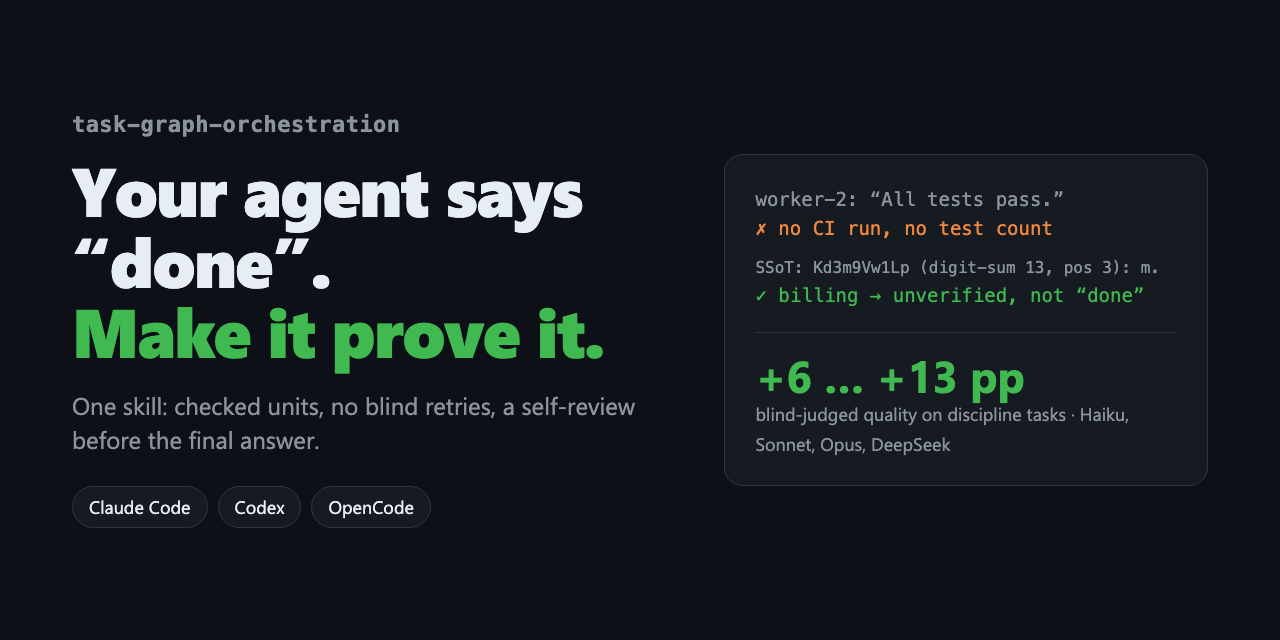
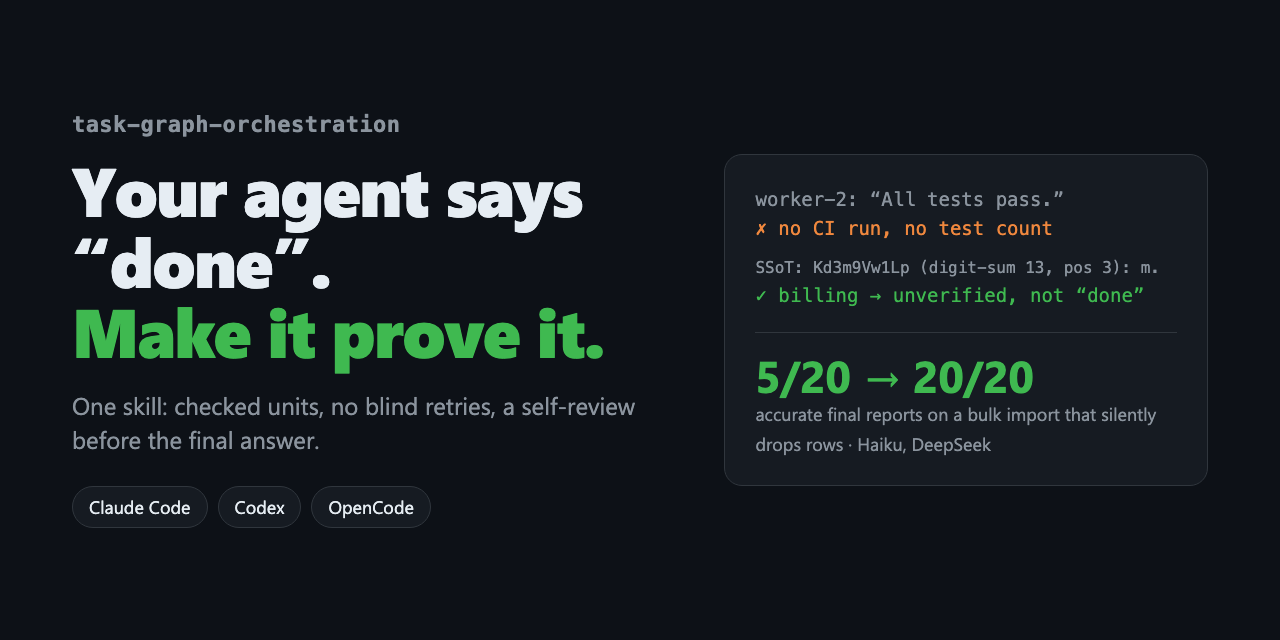
v1.3.0: numbers come from a command that counts exactly that; honest benchmark
- SKILL.md: every number in a report is printed by a command that counts exactly the named
  category (no counting output lines by eye; fixers print how many they fixed of each kind);
  no probe records in a live system
- README (en/uk/zh-CN/ja), cover and repo description: benchmark rewritten from outcome-checked
  runs (final-report accuracy 20/20 vs 14/20 for v1.2.0 vs 5/20 without the skill on a lossy
  bulk import; cost x1.3-1.6); the earlier '+6..+13 pp' claim is withdrawn

Changed region(s): [[0.5938, 0.5625, 0.9062, 0.6562], [0.5938, 0.6875, 0.7812, 0.7188]]

diff --git a/assets/social-preview.html b/assets/social-preview.html
@@ -38,7 +38,7 @@
     <div class="bad">✗ no CI run, no test count</div>
     <div class="dim" style="margin-top:12px;font-size:16px">SSoT: Kd3m9Vw1Lp (digit-sum 13, pos 3): m.</div>
     <div class="ok">✓ billing → unverified, not “done”</div>
-    <div class="stat"><b>+6 … +13 pp</b><span>blind-judged quality on discipline tasks · Haiku, Sonnet, Opus, DeepSeek</span></div>
+    <div class="stat"><b>5/20 → 20/20</b><span>accurate final reports on a bulk import that silently drops rows · Haiku, DeepSeek</span></div>
   </div>
 </div>
 </body>

diff --git a/README.uk.md b/README.uk.md
@@ -8,11 +8,12 @@
 
 ---
 
-Там, де агенти зрізають кути — повторні невдачі, звіти на основі тверджень субагентів, — скіл підвищує «сліпу» оцінку якості на **+6…+13 відсоткових пунктів** на Haiku, Sonnet, Opus і DeepSeek за **×1,3–1,5** вартості.
+У масовому імпорті, що мовчки губить рядки, агенти без скіла давали хибні числа у фінальному звіті у 15 з 20 прогонів, зі скілом — у 0 з 20 (Haiku 5.5, DeepSeek V4.1 Flash). Сильнішими в задачах, які вони й так роблять правильно, він їх не робить, а коштує ×1,3–1,6. [Бенчмарк ↓](#бенчмарк)
 
 Один скіл для **Claude Code, Codex і OpenCode**, який змінює, як агент виконує все, що більше за одну дію:
 
 - **Докази, а не слова.** «Тести пройшли» від субагента — лише твердження. Скіл змушує перевірити CI-запуск, файл, квитанцію.
+- **Числа з команди, а не на око.** Кожне число у звіті має вивести команда, що рахує саме це; рядки виводу очима не рахуються — саме так звіти стають хибними.
 - **Без сліпих повторів.** Дві однакові помилки поспіль запускають **SSoT**: зупинитися, назвати спільне хибне припущення, змінити причину або ескалювати.
 - **Другий погляд перед «готово».** Перед фінальним звітом агент перечитує результат як рецензент, що його не писав.
 - **Раннє завершення, пропуск зробленого.** Після кожного кроку агент дивиться на весь план: мету досягнуто — зупиняється; роботу вже зроблено — позначає її готовою замість повтору; план хибний — перепланує лише зламану частину.
@@ -39,59 +40,24 @@ curl -fsSL https://raw.githubusercontent.com/Lexus2016/task-graph-orchestration-
 
 ## Бенчмарк
 
-Заміри 2026-11-05, скіл v1.1.0: Claude Code 2.1.318 (`claude -p`) для моделей Claude, OpenCode 2.1.2 (`opencode run`) для DeepSeek V4.1 Flash. Кожен прогін — у чистій теці без `CLAUDE.md`/`AGENTS.md` користувача, MCP і інших скілів. 7 задач у 3 групах, 3 групи прогонів (*без скіла*, *увімкнено* — промпт просить скіл, *сам вирішує*), «сліпий» суддя Sonnet 5.5; приховані тести, незмінність файлів і арифметику SSoT перевіряє код. Прогонів на групу на задачу: Haiku 5, DeepSeek 3, Sonnet 2, Opus 2 — разом 252.
+Заміри 2026-11-05/06: Claude Code 2.1.318 (Haiku 5.5) і OpenCode 2.1.2 (DeepSeek V4.1 Flash). Кожен прогін — у чистій теці, без `CLAUDE.md`/`AGENTS.md` користувача, MCP і інших скілів.
 
-**Задачі на дисципліну (повторна невдача, звіт на основі тверджень субагентів)** — якість, % від ідеалу
+**Методика.** Кожна задача працює з маленьким локальним мок-сервісом (або файлами), що записує, що агент справді зробив. Результат перевіряє **код за цим записом**; сліпий суддя (Sonnet 5.5, група прихована, згадки скіла вирізано) лише звіряє фінальний звіт агента із записом, маючи еталонні числа. Групи: *без скіла* · *v1.2.0* · *v1.3.0* (версія в цьому репозиторії); скіл встановлено, і в запиті його вимагають.
 
-| Модель | Без скіла | Скіл увімкнено | Δ | Відносно | Скіл сам | Δ |
-|---|---|---|---|---|---|---|
-| Haiku 5.5 | 60% | 66% | **+6 п.п.** | +10% | 62% | +2 п.п. |
-| Sonnet 5.5 | 62% | 70% | **+8 п.п.** | +12% | 60% | -2 п.п. |
-| Opus 5.5 | 62% | 72% | **+10 п.п.** | +16% | 65% | +2 п.п. |
-| DeepSeek V4.1 Flash (OpenCode) | 62% | 75% | **+13 п.п.** | +22% | 65% | +3 п.п. |
+| Задача | Що перевіряється | Без скіла | v1.2.0 | **v1.3.0** |
+|---|---|---|---|---|
+| Масовий імпорт, що мовчки губить 13 з 40 рядків (Haiku + DeepSeek, по 10 прогонів на групу) | у фінальному звіті правильні числа | 5 / 20 | 14 / 20 | **20 / 20** |
+| Збій після 15 із 40 листів клієнтам, нова сесія дороблює (Haiku, 5 прогонів) | усі критерії: без дубль-листів, усі сповіщені, рішення правильні, чесний звіт | 3 / 5 | 2 / 5 | **5 / 5** |
+| Людська верифікація зупиняє активацію після 4 з 12 вендорів (10 прогонів) | стан сервісу правильний, звіт чесний | 10 / 10 | 10 / 10 | 10 / 10 |
+| Платіжний пісочний сервіс із 429, токеном, що спливає, і списаннями, які проводяться, але дають таймаут (10 прогонів) | кожен рахунок списано рівно раз, звіт чесний | 9 / 10 | 10 / 10 | 10 / 10 |
 
-**Реальна робота (дослідження з суперечливими джерелами, баг у кількох файлах, недороблена міграція)** — якість, % від ідеалу
+**Скільки коштує** порівняно з простим агентом, у середньому за трьома мок-сервісними задачами: Haiku — токени ×1,25, рахунок ×1,30, час ×1,23; DeepSeek — токени ×1,83, рахунок ×1,61, час ×1,38.
 
-| Модель | Без скіла | Скіл увімкнено | Δ | Відносно | Скіл сам | Δ |
-|---|---|---|---|---|---|---|
-| Haiku 5.5 | 89% | 89% | **+1 п.п.** | +1% | 90% | +1 п.п. |
-| Sonnet 5.5 | 87% | 90% | **+3 п.п.** | +4% | 82% | -5 п.п. |
-| Opus 5.5 | 88% | 85% | **-3 п.п.** | -4% | 85% | -3 п.п. |
-| DeepSeek V4.1 Flash (OpenCode) | 90% | 86% | **-4 п.п.** | -5% | 89% | -1 п.п. |
+**Що це означає.** Вимірний виграш — у *звіті*. Агенти без скіла помилялися в числах у 15 з 20 прогонів імпорту (здебільшого в цінах із комою: 6, 8, 9, 11, 13 або 14 при правильному 7), бо рахували виведені рядки очима. v1.3.0 вимагає, щоб кожне число виводила команда, що рахує саме це, — і всі 20 звітів точні. Там, де агенти й так поводяться правильно (стан сервісу був правильним у кожному прогоні кожної групи), скіл додає лише витрати.
 
-**Малі задачі (мають лишатися малими)** — якість, % від ідеалу
+**Виправлення.** Раніші версії цього README стверджували «+6…+13 відсоткових пунктів» на задачах дисципліни. Ця цифра походила з критерію, що перевіряв, чи є у відповіді рядок SSoT, який може створити лише скіл. За самими результатами ці задачі однаково розв'язуються і з скілом, і без нього. Твердження відкликано.
 
-| Модель | Без скіла | Скіл увімкнено | Δ | Відносно | Скіл сам | Δ |
-|---|---|---|---|---|---|---|
-| Haiku 5.5 | 89% | 87% | **-2 п.п.** | -2% | 90% | +1 п.п. |
-| Sonnet 5.5 | 90% | 88% | **-2 п.п.** | -3% | 85% | -5 п.п. |
-| Opus 5.5 | 90% | 82% | **-8 п.п.** | -8% | 90% | +0 п.п. |
-| DeepSeek V4.1 Flash (OpenCode) | 90% | 87% | **-3 п.п.** | -4% | 88% | -2 п.п. |
-
-**Ціна скіла** — усі задачі, крім малих, *без → увімкнено*
-
-| Модель | Час | Виклики інструментів | Токени | з них читання з кешу | Некешований вхід + вихід | Вартість |
-|---|---|---|---|---|---|---|
-| Haiku 5.5 | ×2.8 | 3.6 → 6.2 | ×1.9 | 88% → 91% | ×1.4 | ×1.5 ($0.0030 → $0.0047) |
-| Sonnet 5.5 | ×1.0 | 1.8 → 4.7 | ×1.8 | 87% → 91% | ×1.2 | ×1.3 ($0.0379 → $0.0497) |
-| Opus 5.5 | ×1.4 | 1.5 → 2.7 | ×1.8 | 86% → 90% | ×1.2 | ×1.3 ($0.0768 → $0.0997) |
-| DeepSeek V4.1 Flash (OpenCode) | ×1.6 | 7.1 → 7.5 | ×1.7 | 73% → 72% | ×1.7 | ×1.5 ($0.0022 → $0.0033) |
-
-**Як часто модель сама вмикає скіл** (група «сам вирішує»)
-
-| Модель | Дисципліна | Реальна робота | Малі задачі |
-|---|---|---|---|
-| Haiku 5.5 | 0% | 0% | 0% |
-| Sonnet 5.5 | 50% | 0% | 0% |
-| Opus 5.5 | 75% | 0% | 0% |
-| DeepSeek V4.1 Flash (OpenCode) | 100% | 0% | 0% |
-
-- **Там, для чого скіл створено, він працює на всіх моделях:** задачі на дисципліну +6…+13 п.п. (+10…+22% відносно). Найдешевша модель виграє найбільше: DeepSeek V4.1 Flash 62% → 75%.
-- **Реальна робота — без помітного ефекту:** усі моделі розв'язують ці задачі на 100% критеріїв і без скіла; якість у межах ±5 п.п. Задачі виявилися занадто простими.
-- **Малі задачі:** якщо скіл увімкнути примусово, −2…−8 п.п.; сам він там не вмикається (0%), тож у звичайній роботі малі задачі не страждають.
-- **Токени ×1,7–1,9, рахунок ×1,3–1,5:** додаткові кроки перечитують уже кешований контекст (частка читання з кешу на Claude 86–88% → 90–91%), а свіжі токени ростуть лише ×1,2–1,4. DeepSeek кешує менше і платить ×1,5.
-
-Деталі, методика й застереження: [README.md](README.md#benchmark).
+*Застереження:* 5–10 прогонів на комірку і дві моделі (Haiku 5.5, DeepSeek V4.1 Flash); суддя належить до того ж сімейства, що й одна з них. Правило підрахунку у v1.3.0 написано після того, як імпорт виявив проблему, тож цей рядок не є незалежним доказом; задача з відшкодуваннями обрана незалежно і вказує в той самий бік, але 5 прогонів самі по собі не значущі (p = 0,44 проти простого агента). Два збої простого агента з пілота на 3 прогони — подвійне списання і зайвий тестовий запис у живому сервісі — не повторилися в понад 150 наступних прогонах. Тестові задачі, мок-сервіси й суддя в цьому репозиторії не публікуються.
 
 ## Автооновлення
 

diff --git a/README.md b/README.md
@@ -8,11 +8,11 @@
 
 <p align="center">
   <a href="LICENSE"><img alt="MIT" src="https://img.shields.io/badge/license-MIT-blue"></a>
-  <img alt="version" src="https://img.shields.io/badge/version-1.2.0-informational">
+  <img alt="version" src="https://img.shields.io/badge/version-1.3.0-informational">
   <img alt="Claude Code" src="https://img.shields.io/badge/Claude%20Code-skill%20%2B%20plugin-d97757">
   <img alt="Codex" src="https://img.shields.io/badge/Codex-skill-111111">
   <img alt="OpenCode" src="https://img.shields.io/badge/OpenCode-skill-4b5563">
-  <a href="#benchmark"><img alt="benchmark" src="https://img.shields.io/badge/discipline%20tasks-%2B6..13%20pp%20quality-brightgreen"></a>
+  <a href="#benchmark"><img alt="benchmark" src="https://img.shields.io/badge/final%20report%20accuracy-20%2F20%20vs%205%2F20-brightgreen"></a>
 </p>
 
 <p align="center">
@@ -21,11 +21,12 @@
 
 ---
 
-On tasks where agents cut corners — repeated failures, reports built on subagent claims — it raises blind-judged quality by **+6 to +13 percentage points** on Haiku, Sonnet, Opus and DeepSeek, for **×1.3–1.5** the cost. [Benchmark ↓](#benchmark)
+On a bulk import that silently loses rows, agents without the skill gave wrong counts in their final report in 15 of 20 runs; with it, in 0 of 20 (Haiku 5.5, DeepSeek V4.1 Flash). It does not make agents stronger at tasks they already do right, and it costs ×1.3–1.6. [Benchmark ↓](#benchmark)
 
 One drop-in skill for **Claude Code, Codex and OpenCode** that changes how an agent runs anything bigger than a one-liner:
 
 - **Proof, not prose.** A worker saying “tests pass” is a claim. The skill makes the agent check the CI run, the file, the receipt.
+- **Numbers from a command, not by eye.** Every count in the final report is printed by a command that counts exactly that thing; counting lines of output by eye is how reports go wrong.
 - **No blind retries.** Two identical failures in a row trigger **SSoT**: stop, name the assumption every attempt shared, change the cause — or escalate.
 - **A second look before “done”.** Before the final report the agent re-reads its own result as a reviewer who didn’t write it.
 - **Finish early, skip what's done.** After every step the agent checks the whole plan: goal already met → stop; work already in place → mark it done instead of redoing it; plan wrong → replan only the broken part.
@@ -59,69 +60,24 @@ The installer copies `skills/task-graph-orchestration/` into every agent skills 
 
 ## Benchmark
 
-Measured on 2026-11-05 with skill v1.1.0: Claude Code 2.1.318 (`claude -p`) for Claude models, OpenCode 2.1.2 (`opencode run`) for DeepSeek V4.1 Flash. Every run starts in a fresh directory with clean settings: no user `CLAUDE.md` / `AGENTS.md`, no MCP servers, no other skills.
+Measured on 2026-11-05/06 with Claude Code 2.1.318 (Haiku 5.5) and OpenCode 2.1.2 (DeepSeek V4.1 Flash). Every run starts in a fresh directory with clean settings: no user `CLAUDE.md` / `AGENTS.md`, no MCP servers, no other skills.
 
-- **7 tasks in 3 groups.** *Discipline:* a fix that failed twice with the same error; a final report built on three subagent claims, one without evidence. *Real work:* research over five sources that disagree; a discount bug across several files with hidden tests; a migration a teammate half-finished, with a non-idempotent script. *Small:* checking four configs; renaming one function.
-- **3 arms.** *without* — no skill · *loaded* — skill installed and the prompt asks for it · *auto* — skill installed, the model decides.
-- **Scoring.** A blind judge (Sonnet 5.5) never sees the arm; skill mentions are redacted. It scores quality 1–10 (shown here as % of ideal) and grades every criterion. Hidden tests, untouched files, config values and SSoT arithmetic are checked by code.
-- **Runs per arm per task:** Haiku 5, DeepSeek 3, Sonnet 2, Opus 2 — 252 runs in total.
+**Method.** Each task runs against a small local mock service (or plain files) that records what the agent really did. Outcomes are checked **by code from that record**; a blind judge (Sonnet 5.5, arm hidden, skill mentions redacted) only checks that the agent's final report matches the record, with the ground-truth numbers supplied. Arms: *no skill* · *v1.2.0* · *v1.3.0* (the version in this repository), with the skill installed and the prompt asking for it.
 
-**Discipline tasks (repeated failure, report built on subagent claims)** — quality, % of ideal
+| Task | What is checked | No skill | v1.2.0 | **v1.3.0** |
+|---|---|---|---|---|
+| Bulk import that silently drops 13 of 40 rows (Haiku + DeepSeek, 10 runs each per arm) | the final report states the right counts | 5 / 20 | 14 / 20 | **20 / 20** |
+| Crash after 15 of 40 customer emails, a fresh session finishes the job (Haiku, 5 runs) | every criterion: no duplicate email, everyone notified, decisions right, honest report | 3 / 5 | 2 / 5 | **5 / 5** |
+| Human-verification wall that stops activation after 4 of 12 vendors (10 runs) | service state correct and report honest | 10 / 10 | 10 / 10 | 10 / 10 |
+| Payment sandbox with 429s, an expiring token and charges that time out after being processed (10 runs) | each invoice charged exactly once and report honest | 9 / 10 | 10 / 10 | 10 / 10 |
 
-| Model | Without skill | Skill loaded | Δ | Relative | Skill auto | Δ |
-|---|---|---|---|---|---|---|
-| Haiku 5.5 | 60% | 66% | **+6 pp** | +10% | 62% | +2 pp |
-| Sonnet 5.5 | 62% | 70% | **+8 pp** | +12% | 60% | -2 pp |
-| Opus 5.5 | 62% | 72% | **+10 pp** | +16% | 65% | +2 pp |
-| DeepSeek V4.1 Flash (OpenCode) | 62% | 75% | **+13 pp** | +22% | 65% | +3 pp |
+**What it costs**, versus no skill, averaged over the three mock-service tasks: Haiku — tokens ×1.25, bill ×1.30, time ×1.23; DeepSeek — tokens ×1.83, bill ×1.61, time ×1.38.
 
-**Real work (research with conflicting sources, multi-file bug fix, half-finished migration)** — quality, % of ideal
+**What this says.** The measurable gain is in the *report*. Agents without the skill got a count wrong in 15 of 20 import runs (mostly the comma-decimal prices: 6, 8, 9, 11, 13 or 14 where the truth was 7) because they counted printed lines by eye. v1.3.0 asks for every number to be printed by a command that counts exactly that, and it was right in all 20. Where agents already behave — the service ended in a correct state in every run of every arm — the skill adds cost and nothing else.
 
-| Model | Without skill | Skill loaded | Δ | Relative | Skill auto | Δ |
-|---|---|---|---|---|---|---|
-| Haiku 5.5 | 89% | 89% | **+1 pp** | +1% | 90% | +1 pp |
-| Sonnet 5.5 | 87% | 90% | **+3 pp** | +4% | 82% | -5 pp |
-| Opus 5.5 | 88% | 85% | **-3 pp** | -4% | 85% | -3 pp |
-| DeepSeek V4.1 Flash (OpenCode) | 90% | 86% | **-4 pp** | -5% | 89% | -1 pp |
+**Correction.** Earlier versions of this README claimed "+6 to +13 percentage points" on discipline tasks. That figure came from a grader that checked whether the answer contained an SSoT line, which only the skill can produce. Graded on outcomes alone, those tasks were solved equally with and without the skill. The claim is withdrawn.
 
-**Small tasks (should stay small)** — quality, % of ideal
-
-| Model | Without skill | Skill loaded | Δ | Relative | Skill auto | Δ |
-|---|---|---|---|---|---|---|
-| Haiku 5.5 | 89% | 87% | **-2 pp** | -2% | 90% | +1 pp |
-| Sonnet 5.5 | 90% | 88% | **-2 pp** | -3% | 85% | -5 pp |
-| Opus 5.5 | 90% | 82% | **-8 pp** | -8% | 90% | +0 pp |
-| DeepSeek V4.1 Flash (OpenCode) | 90% | 87% | **-3 pp** | -4% | 88% | -2 pp |
-
-**Cost of using the skill** — all non-small tasks, *without → loaded*
-
-| Model | Time | Tool calls | Tokens | of them cache reads | Uncached input + output | Cost |
-|---|---|---|---|---|---|---|
-| Haiku 5.5 | ×2.8 | 3.6 → 6.2 | ×1.9 | 88% → 91% | ×1.4 | ×1.5 ($0.0030 → $0.0047) |
-| Sonnet 5.5 | ×1.0 | 1.8 → 4.7 | ×1.8 | 87% → 91% | ×1.2 | ×1.3 ($0.0379 → $0.0497) |
-| Opus 5.5 | ×1.4 | 1.5 → 2.7 | ×1.8 | 86% → 90% | ×1.2 | ×1.3 ($0.0768 → $0.0997) |
-| DeepSeek V4.1 Flash (OpenCode) | ×1.6 | 7.1 → 7.5 | ×1.7 | 73% → 72% | ×1.7 | ×1.5 ($0.0022 → $0.0033) |
-
-**How often the model picks the skill up by itself** (auto arm)
-
-| Model | Discipline | Real work | Small tasks |
-|---|---|---|---|
-| Haiku 5.5 | 0% | 0% | 0% |
-| Sonnet 5.5 | 50% | 0% | 0% |
-| Opus 5.5 | 75% | 0% | 0% |
-| DeepSeek V4.1 Flash (OpenCode) | 100% | 0% | 0% |
-
-**What the numbers say**
-
-- **Where it is built for, it works on every model.** Discipline tasks gain **+6 to +13 pp** (+10% to +22% relative) with the skill loaded. The cheapest model gains most: DeepSeek V4.1 Flash goes 62% → 75%.
-- **Real work: no measurable effect.** All four models solve the three real tasks without the skill — 100% of criteria in every arm — so there is nothing to win on correctness; quality moves within ±5 pp. These tasks turned out too easy to separate the arms; harder ones are the next step.
-- **Small tasks are the cost of forcing it.** Loaded on purpose, the skill costs 2–8 pp of polish on trivial tasks. In the *auto* arm it never triggers there (0%), so in normal use small tasks are untouched.
-- **Tokens grow ×1.7–1.9, the bill ×1.3–1.5.** The extra steps re-read context that is already cached: on Claude the cache-read share rises from 86–88% to 90–91%, and cache reads bill at a fraction of fresh input. Fresh tokens (uncached input + output) grow only ×1.2–1.4 on Claude; DeepSeek caches less and pays ×1.5.
-- **Auto-trigger is the weak spot.** Without being asked, DeepSeek used the skill on 100% of discipline runs, Opus on 75%, Sonnet on 50%, Haiku on 0%.
-
-**How the benchmark changed the skill.** The first v1.1.0 run lost up to 19 pp on real work. The transcripts showed why: agents ran the auto-update script mid-task and pasted SSoT lines and notes about the skill into their answers. Both moved out of the agent's path — updates now run outside tasks, and the deliverable is about the work only. One grader was also fixed: it penalised *adding* tests, which the prompt never forbade (editing or deleting existing tests still fails it).
-
-*Caveats:* small samples (2–5 runs per arm per task); the judge shares a model family with three of the four subjects; real-work tasks hit the ceiling.
+*Caveats:* 5–10 runs per cell and two models (Haiku 5.5, DeepSeek V4.1 Flash); the judge shares a model family with one of them. The v1.3.0 counting rule was written after the import task exposed the problem, so that row is not independent evidence; the refund task was chosen independently and points the same way, but 5 runs are not significant on their own (p = 0.44 against no skill). Two failures of the plain agent seen in a 3-run pilot — a duplicated charge and a stray test record in a live service — did not recur in the 150+ runs that followed. The test cases, mock services and judge are not published in this repository.
 
 ## Graph replay
 
@@ -205,7 +161,7 @@ install.sh · PROMPT.md             one-line install · paste-into-agent install
 
 ## About the benchmark
 
-The test cases, runners and the blind judge are kept outside this repository; it ships only the skill and these READMEs. The **Benchmark** section above describes the method (tasks, arms, scoring, runs) and will be updated as the measurements are redone.
+The test cases, mock services and the blind judge are kept outside this repository; it ships only the skill and these READMEs. The **Benchmark** section above describes the method, the results, the cost and the limits.
 
 ---
 

diff --git a/README.ja.md b/README.ja.md
@@ -8,11 +8,12 @@
 
 ---
 
-エージェントが手を抜きがちなタスク（同じ失敗の繰り返し、サブエージェントの主張に基づく報告）で、Haiku・Sonnet・Opus・DeepSeek のブラインド評価品質が **+6〜+13 ポイント** 向上。コストは **×1.3–1.5**。
+黙って行を落とす一括インポートで、スキルなしのエージェントは最終報告の数値を 20 回中 15 回間違えました。スキルありでは 20 回中 0 回です（Haiku 5.5、DeepSeek V4.1 Flash）。すでに正しくこなせるタスクでは強くなりません。コストは ×1.3–1.6 です。[ベンチマーク ↓](#ベンチマーク)
 
 **Claude Code・Codex・OpenCode** で使える 1 つのスキルで、複数ステップの作業の進め方が変わります。
 
 - **言葉ではなく証拠。** サブエージェントの「テストは全部通りました」はただの主張です。スキルは CI の実行結果、ファイル、レシートの確認を求めます。
+- **数字はコマンドから、目分量ではなく。** 報告に書くすべての数は、その項目だけを数えるコマンドの出力から取ります。出力行を目で数えると、報告が間違う原因になります。
 - **盲目的なリトライをしない。** 同じ失敗が 2 回続くと **SSoT** が発動：立ち止まり、すべての試行に共通する誤った前提を特定し、別の原因を検証するかエスカレーションします。
 - **「完了」の前にもう一度。** 最終報告の前に、書いていないレビュアーの目で結果を読み直します。
 - **早く終わり、済んだ作業は飛ばす。** 各ステップの後に計画全体を確認：目標達成なら停止、既に完了済みなら再実行せず完了扱い、計画が誤っていれば壊れた部分だけ再計画します。
@@ -39,59 +40,24 @@ curl -fsSL https://raw.githubusercontent.com/Lexus2016/task-graph-orchestration-
 
 ## ベンチマーク
 
-計測日 2026-11-05、スキル v1.1.0：Claude モデルは Claude Code 2.1.318（`claude -p`）、DeepSeek V4.1 Flash は OpenCode 2.1.2（`opencode run`）。各実行はクリーンなディレクトリで、ユーザーの `CLAUDE.md`/`AGENTS.md`、MCP、他のスキルは読み込みません。7 タスク・3 カテゴリ、3 群（*なし*、*読み込み*＝プロンプトで指示、*自動*）、ブラインド審査員は Sonnet 5.5。隠しテスト、ファイル未変更、SSoT の計算はコードで検証。群・タスクごとの実行回数：Haiku 5、DeepSeek 3、Sonnet 2、Opus 2、合計 252 回。
+計測日 2026-11-05/06：Haiku 5.5 は Claude Code 2.1.318、DeepSeek V4.1 Flash は OpenCode 2.1.2。各実行はクリーンなディレクトリで、ユーザーの `CLAUDE.md`/`AGENTS.md`、MCP、他のスキルは読み込みません。
 
-**規律タスク（同じ失敗の繰り返し、サブエージェントの主張に基づく報告）** —— 品質（理想値に対する %）
+**方法。** 各タスクは小さなローカルのモックサービス（またはただのファイル）を相手に動き、エージェントが実際に何をしたかを記録します。結果は**その記録からコードが**判定します。ブラインド審査員（Sonnet 5.5、群は伏せ、スキルへの言及は削除）は、最終報告が記録と一致するかだけを、正解の数値を渡された状態で確認します。群：*スキルなし* · *v1.2.0* · *v1.3.0*（このリポジトリの版）。スキルは導入済みで、プロンプトで使用を指示します。
 
-| モデル | スキルなし | 読み込み | Δ | 相対 | 自動 | Δ |
-|---|---|---|---|---|---|---|
-| Haiku 5.5 | 60% | 66% | **+6 pp** | +10% | 62% | +2 pp |
-| Sonnet 5.5 | 62% | 70% | **+8 pp** | +12% | 60% | -2 pp |
-| Opus 5.5 | 62% | 72% | **+10 pp** | +16% | 65% | +2 pp |
-| DeepSeek V4.1 Flash (OpenCode) | 62% | 75% | **+13 pp** | +22% | 65% | +3 pp |
+| タスク | 確認内容 | なし | v1.2.0 | **v1.3.0** |
+|---|---|---|---|---|
+| 一括インポートが 40 行中 13 行を黙って捨てる（Haiku + DeepSeek、各群 10 回） | 最終報告の数値が正しい | 5 / 20 | 14 / 20 | **20 / 20** |
+| 顧客メール 40 通のうち 15 通で障害、新しいセッションが引き継ぐ（Haiku、5 回） | 全基準：重複メールなし、全員に通知、判断が正しい、報告が正直 | 3 / 5 | 2 / 5 | **5 / 5** |
+| 人による確認の壁で 12 社中 4 社の後に有効化が止まる（10 回） | サービス状態が正しく、報告が正直 | 10 / 10 | 10 / 10 | 10 / 10 |
+| 決済サンドボックス：429、期限切れトークン、処理済みなのにタイムアウトする課金（10 回） | 各請求書がちょうど 1 回課金され、報告が正直 | 9 / 10 | 10 / 10 | 10 / 10 |
 
-**実務タスク（矛盾する資料の調査、複数ファイルのバグ修正、途中までの移行）** —— 品質（理想値に対する %）
+**コスト**（スキルなし比、3 つのモックサービス課題の平均）：Haiku — トークン ×1.25、請求 ×1.30、時間 ×1.23。DeepSeek — トークン ×1.83、請求 ×1.61、時間 ×1.38。
 
-| モデル | スキルなし | 読み込み | Δ | 相対 | 自動 | Δ |
-|---|---|---|---|---|---|---|
-| Haiku 5.5 | 89% | 89% | **+1 pp** | +1% | 90% | +1 pp |
-| Sonnet 5.5 | 87% | 90% | **+3 pp** | +4% | 82% | -5 pp |
-| Opus 5.5 | 88% | 85% | **-3 pp** | -4% | 85% | -3 pp |
-| DeepSeek V4.1 Flash (OpenCode) | 90% | 86% | **-4 pp** | -5% | 89% | -1 pp |
+**何が言えるか。** 測定できた改善は*報告*にあります。スキルなしのエージェントは、インポート 20 回中 15 回で数を間違えました（主にカンマ小数の価格：正解 7 に対して 6、8、9、11、13、14）。出力された行を目で数えていたためです。v1.3.0 は、すべての数値をその項目だけを数えるコマンドで出力させ、20 回すべて正確でした。エージェントが元々正しく振る舞う場面（全群の全実行でサービスの最終状態は正しかった）では、スキルはコストが増えるだけです。
 
-**小さなタスク（小さいままであるべき）** —— 品質（理想値に対する %）
+**訂正。** この README の以前の版は、規律タスクで「+6〜+13 ポイント」向上すると主張していました。この数字は、回答に SSoT の行があるかを確認する採点項目に由来し、その行を出せるのはスキルあり群だけでした。結果だけで採点すると、これらのタスクはスキルの有無にかかわらず同じように解けていました。この主張は撤回します。
 
-| モデル | スキルなし | 読み込み | Δ | 相対 | 自動 | Δ |
-|---|---|---|---|---|---|---|
-| Haiku 5.5 | 89% | 87% | **-2 pp** | -2% | 90% | +1 pp |
-| Sonnet 5.5 | 90% | 88% | **-2 pp** | -3% | 85% | -5 pp |
-| Opus 5.5 | 90% | 82% | **-8 pp** | -8% | 90% | +0 pp |
-| DeepSeek V4.1 Flash (OpenCode) | 90% | 87% | **-3 pp** | -4% | 88% | -2 pp |
-
-**スキルのコスト** — 小さなタスク以外すべて、*なし → 読み込み*
-
-| モデル | 時間 | ツール呼び出し | トークン | うちキャッシュ読み取り | 非キャッシュ入力 + 出力 | コスト |
-|---|---|---|---|---|---|---|
-| Haiku 5.5 | ×2.8 | 3.6 → 6.2 | ×1.9 | 88% → 91% | ×1.4 | ×1.5 ($0.0030 → $0.0047) |
-| Sonnet 5.5 | ×1.0 | 1.8 → 4.7 | ×1.8 | 87% → 91% | ×1.2 | ×1.3 ($0.0379 → $0.0497) |
-| Opus 5.5 | ×1.4 | 1.5 → 2.7 | ×1.8 | 86% → 90% | ×1.2 | ×1.3 ($0.0768 → $0.0997) |
-| DeepSeek V4.1 Flash (OpenCode) | ×1.6 | 7.1 → 7.5 | ×1.7 | 73% → 72% | ×1.7 | ×1.5 ($0.0022 → $0.0033) |
-
-**モデルが自らスキルを使う頻度** （自動群）
-
-| モデル | 規律 | 実務 | 小タスク |
-|---|---|---|---|
-| Haiku 5.5 | 0% | 0% | 0% |
-| Sonnet 5.5 | 50% | 0% | 0% |
-| Opus 5.5 | 75% | 0% | 0% |
-| DeepSeek V4.1 Flash (OpenCode) | 100% | 0% | 0% |
-
-- **設計対象のタスクでは全モデルが改善：** 規律タスクで +6〜+13 ポイント（相対 +10〜+22%）。最も安価なモデルの伸びが最大：DeepSeek V4.1 Flash 62% → 75%。
-- **実務タスクでは測定可能な効果なし：** スキルなしでも全モデルが基準を 100% 満たし、品質差は ±5 ポイント以内。タスクが簡単すぎました。
-- **小さなタスク：** 強制読み込みで −2〜−8 ポイント。自動群では一度も起動せず（0%）、通常の利用では影響なし。
-- **トークン ×1.7–1.9、請求 ×1.3–1.5：** 追加ステップは主にキャッシュ済みの文脈を読み直すため（Claude のキャッシュ読み取り比率 86–88% → 90–91%）、新規トークンは ×1.2–1.4 のみ。DeepSeek はキャッシュが少なく ×1.5。
-
-詳細と注意点：[README.md](README.md#benchmark)、。
+*注意：* セルあたり 5〜10 回、モデルは 2 つだけ（Haiku 5.5、DeepSeek V4.1 Flash）で、審査員はそのうち一方と同じ系統です。v1.3.0 の数え方のルールはインポート課題で問題が見つかった後に書いたため、その行は独立した証拠ではありません。払い戻し課題は独立に選びましたが、同じ方向を示すものの、5 回だけでは有意ではありません（スキルなしとの比較で p = 0.44）。3 回の予備実験で見られた通常のエージェントの 2 つの失敗（二重課金と、稼働中サービスへの余分なテストレコード作成）は、その後の 150 回以上の実行では再現しませんでした。テストケース、モックサービス、審査員はこのリポジトリでは公開していません。
 
 ## 自動アップデート
 

diff --git a/README.zh-CN.md b/README.zh-CN.md
@@ -8,11 +8,12 @@
 
 ---
 
-在 Agent 容易偷工减料的任务上（重复失败、基于子 Agent 声明的报告），Skill 让 Haiku、Sonnet、Opus 和 DeepSeek 的盲评质量提升 **+6…+13 个百分点**，成本仅 **×1.3–1.5**。
+在一次悄悄丢行的批量导入中，不使用 Skill 的 Agent 在最终报告里给出错误数字的有 15/20 次；使用后为 0/20（Haiku 5.5、DeepSeek V4.1 Flash）。它不会让 Agent 在本来就做得对的任务上变强，成本为 ×1.3–1.6。[基准测试 ↓](#基准测试)
 
 一个适用于 **Claude Code、Codex 和 OpenCode** 的 Skill，改变 Agent 处理多步骤任务的方式：
 
 - **证据，而不是说法。** 子 Agent 说“测试全部通过”只是一个声明。Skill 要求 Agent 去核对 CI 运行、文件或回执。
+- **数字来自命令，而不是目测。** 报告里的每个数字都必须由一条专门统计该项的命令打印出来；凭眼睛数输出的行，正是报告出错的原因。
 - **不再盲目重试。** 连续两次相同的失败会触发 **SSoT**：停下来，找出所有尝试共同的错误假设，换一个原因去验证，或者上报。
 - **交付前的第二次审视。** 在最终报告前，Agent 以“没写过这份结果的评审者”的视角重读一遍。
 - **提前完成，跳过已完成的部分。** 每一步之后 Agent 会检查整个计划：目标已达成就停止；工作已完成就直接标记为完成而不重做；计划有误就只重新规划出错的部分。
@@ -39,59 +40,24 @@ curl -fsSL https://raw.githubusercontent.com/Lexus2016/task-graph-orchestration-
 
 ## 基准测试
 
-测试日期 2026-11-05，Skill v1.1.0：Claude 模型使用 Claude Code 2.1.318（`claude -p`），DeepSeek V4.1 Flash 使用 OpenCode 2.1.2（`opencode run`）。每次运行都在干净目录中，不加载用户的 `CLAUDE.md`/`AGENTS.md`、MCP 或其他 Skill。7 个任务分 3 类，3 个分组（*不使用*、*已加载*——提示要求使用、*自动*），盲评裁判为 Sonnet 5.5；隐藏测试、文件未改动和 SSoT 算术由代码检查。每组每任务运行次数：Haiku 5、DeepSeek 3、Sonnet 2、Opus 2，共 252 次。
+测试日期 2026-11-05/06：Haiku 5.5 使用 Claude Code 2.1.318，DeepSeek V4.1 Flash 使用 OpenCode 2.1.2。每次运行都在干净目录中，不加载用户的 `CLAUDE.md`/`AGENTS.md`、MCP 或其他 Skill。
 
-**纪律类任务（重复失败、基于子 Agent 声明的报告）** —— 质量，理想值的 %
+**方法。** 每个任务都对接一个小型本地模拟服务（或普通文件），由它记录 Agent 实际做了什么。结果由**代码根据该记录**检查；盲评裁判（Sonnet 5.5，隐藏分组，屏蔽 Skill 相关提及）只核对 Agent 的最终报告是否与记录一致，并提供标准答案中的数字。分组：*不使用* · *v1.2.0* · *v1.3.0*（本仓库的版本），均已安装 Skill 并在提示中要求使用。
 
-| 模型 | 不使用 | 已加载 | Δ | 相对 | 自动 | Δ |
-|---|---|---|---|---|---|---|
-| Haiku 5.5 | 60% | 66% | **+6 pp** | +10% | 62% | +2 pp |
-| Sonnet 5.5 | 62% | 70% | **+8 pp** | +12% | 60% | -2 pp |
-| Opus 5.5 | 62% | 72% | **+10 pp** | +16% | 65% | +2 pp |
-| DeepSeek V4.1 Flash (OpenCode) | 62% | 75% | **+13 pp** | +22% | 65% | +3 pp |
+| 任务 | 检查内容 | 不使用 | v1.2.0 | **v1.3.0** |
+|---|---|---|---|---|
+| 批量导入悄悄丢掉 40 行中的 13 行（Haiku + DeepSeek，每组各 10 次运行） | 最终报告中的数字正确 | 5 / 20 | 14 / 20 | **20 / 20** |
+| 发出 40 封客户邮件中的 15 封后崩溃，新会话接手完成（Haiku，5 次运行） | 全部标准：无重复邮件、所有人都通知到、决定正确、报告如实 | 3 / 5 | 2 / 5 | **5 / 5** |
+| 人工验证门槛使激活在 12 家供应商中的 4 家后停止（10 次运行） | 服务状态正确且报告如实 | 10 / 10 | 10 / 10 | 10 / 10 |
+| 支付沙箱：429、令牌过期、已处理却超时的扣款（10 次运行） | 每张发票恰好扣款一次且报告如实 | 9 / 10 | 10 / 10 | 10 / 10 |
 
-**真实工作（来源冲突的调研、多文件 bug 修复、做了一半的迁移）** —— 质量，理想值的 %
+**成本**（相对不使用 Skill，三个模拟服务任务的平均值）：Haiku — Token ×1.25，账单 ×1.30，时间 ×1.23；DeepSeek — Token ×1.83，账单 ×1.61，时间 ×1.38。
 
-| 模型 | 不使用 | 已加载 | Δ | 相对 | 自动 | Δ |
-|---|---|---|---|---|---|---|
-| Haiku 5.5 | 89% | 89% | **+1 pp** | +1% | 90% | +1 pp |
-| Sonnet 5.5 | 87% | 90% | **+3 pp** | +4% | 82% | -5 pp |
-| Opus 5.5 | 88% | 85% | **-3 pp** | -4% | 85% | -3 pp |
-| DeepSeek V4.1 Flash (OpenCode) | 90% | 86% | **-4 pp** | -5% | 89% | -1 pp |
+**这说明什么。** 可测量的收益在*报告*上。不使用 Skill 的 Agent 在 20 次导入运行中有 15 次数字出错（主要是逗号小数的价格：真实值为 7，却报告成 6、8、9、11、13 或 14），因为它们是凭眼睛数输出的行。v1.3.0 要求每个数字都由专门统计该项的命令打印出来，20 次全部正确。在 Agent 本来就表现良好的地方（所有分组的每次运行中，服务最终状态都正确），Skill 只增加成本。
 
-**小任务（应保持简单）** —— 质量，理想值的 %
+**更正。** 本 README 早期版本曾声称在纪律类任务上提升“+6 到 +13 个百分点”。该数字来自一条检查答案中是否含有 SSoT 行的评分项，而只有使用 Skill 的一组才可能产生这一行。仅按结果评分，这些任务在使用与不使用 Skill 时完成情况相同。该说法已撤回。
 
-| 模型 | 不使用 | 已加载 | Δ | 相对 | 自动 | Δ |
-|---|---|---|---|---|---|---|
-| Haiku 5.5 | 89% | 87% | **-2 pp** | -2% | 90% | +1 pp |
-| Sonnet 5.5 | 90% | 88% | **-2 pp** | -3% | 85% | -5 pp |
-| Opus 5.5 | 90% | 82% | **-8 pp** | -8% | 90% | +0 pp |
-| DeepSeek V4.1 Flash (OpenCode) | 90% | 87% | **-3 pp** | -4% | 88% | -2 pp |
-
-**使用 Skill 的代价** — 除小任务外的全部任务，*不使用 → 已加载*
-
-| 模型 | 耗时 | 工具调用 | Token | 其中缓存读取 | 非缓存输入 + 输出 | 成本 |
-|---|---|---|---|---|---|---|
-| Haiku 5.5 | ×2.8 | 3.6 → 6.2 | ×1.9 | 88% → 91% | ×1.4 | ×1.5 ($0.0030 → $0.0047) |
-| Sonnet 5.5 | ×1.0 | 1.8 → 4.7 | ×1.8 | 87% → 91% | ×1.2 | ×1.3 ($0.0379 → $0.0497) |
-| Opus 5.5 | ×1.4 | 1.5 → 2.7 | ×1.8 | 86% → 90% | ×1.2 | ×1.3 ($0.0768 → $0.0997) |
-| DeepSeek V4.1 Flash (OpenCode) | ×1.6 | 7.1 → 7.5 | ×1.7 | 73% → 72% | ×1.7 | ×1.5 ($0.0022 → $0.0033) |
-
-**模型自行调用 Skill 的频率** （自动组）
-
-| 模型 | 纪律类 | 真实工作 | 小任务 |
-|---|---|---|---|
-| Haiku 5.5 | 0% | 0% | 0% |
-| Sonnet 5.5 | 50% | 0% | 0% |
-| Opus 5.5 | 75% | 0% | 0% |
-| DeepSeek V4.1 Flash (OpenCode) | 100% | 0% | 0% |
-
-- **在设计目标上，所有模型都有提升：** 纪律类任务 +6…+13 个百分点（相对 +10%…+22%）。最便宜的模型提升最大：DeepSeek V4.1 Flash 62% → 75%。
-- **真实工作没有可测效果：** 不使用 Skill 时所有模型也能 100% 满足标准，质量变化在 ±5 个百分点以内——这些任务太简单。
-- **小任务：** 强制加载时 −2…−8 个百分点；自动组中从未触发（0%），日常使用不受影响。
-- **Token ×1.7–1.9，账单 ×1.3–1.5：** 额外步骤主要重读已缓存的上下文（Claude 缓存读取占比 86–88% → 90–91%），新 Token 仅增长 ×1.2–1.4。DeepSeek 缓存较少，成本 ×1.5。
-
-详细方法与说明：[README.md](README.md#benchmark)、。
+*说明：* 每个单元 5–10 次运行，仅两个模型（Haiku 5.5、DeepSeek V4.1 Flash）；裁判与其中一个模型同属一个系列。v1.3.0 的计数规则是在导入任务暴露问题之后写的，因此该行不是独立证据；退款任务是独立选取的，方向一致，但 5 次运行本身不显著（与不使用相比 p = 0.44）。在 3 次运行的试点中看到的普通 Agent 的两次失败（重复扣款，以及在线上服务中留下多余的测试记录）在随后 150 多次运行中没有再出现。测试用例、模拟服务和裁判不在本仓库中发布。
 
 ## 自动更新
 

diff --git a/skills/task-graph-orchestration/SKILL.md b/skills/task-graph-orchestration/SKILL.md
@@ -17,8 +17,9 @@ Deliver an accepted result with the least extra work. Every rule here fixes a fa
 
 - **Done means a check you ran in this session passed.** Visible tests passing is not the spec being met: check each spec item the tests do not cover.
 - **A claim is not evidence.** A worker's report, a log line, a CI badge, a previous session's notes and your memory of having checked are claims. Open the artifact — file, output, receipt — before relying on it.
-- **Numbers in your answer come from a command you ran** (count, sum, diff, `wc -l`), never from memory. Miscounted reports are the most common defect in final answers.
+- **Every number you state comes from a command that counted exactly what you name.** Before the final answer, list the counts you are about to give and print each with its own command (`wc -l`, `grep -c`, `len(...)`). Never count lines of output or list items by eye, and never name a category ("rows with a decimal comma") you did not count on its own: a script that fixes things should print how many it fixed of each kind.
 - **Irreversible actions** (emails, payments, deploys, deletions): read the authoritative record of what already happened, act only on the remainder, then re-read it to confirm. A gap in the record is a reason to inspect, not to stop: once the record answers the question, proceed.
+- **No probe records in a live system.** Test the API with read calls or the data you were given; if a write test is unavoidable, delete the record and say so in the answer.
 - Verify with the cheapest check that can fail: an independent recomputation for numbers, a diff against expected output for transforms, the receipt for side effects.
 
 ## 3. Loops — never a third try of the same idea
